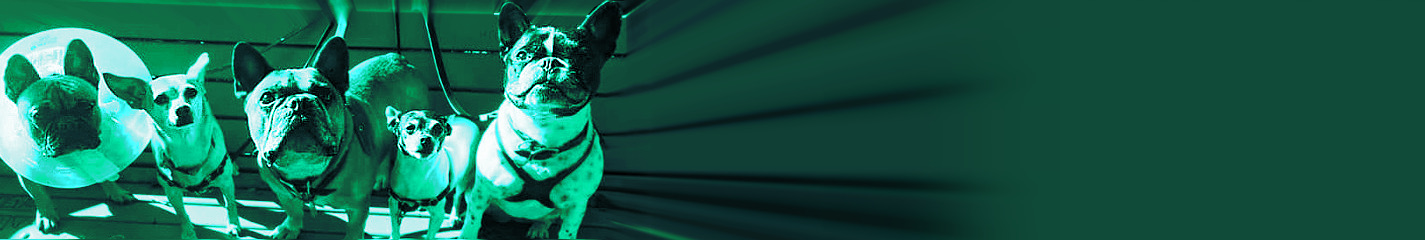
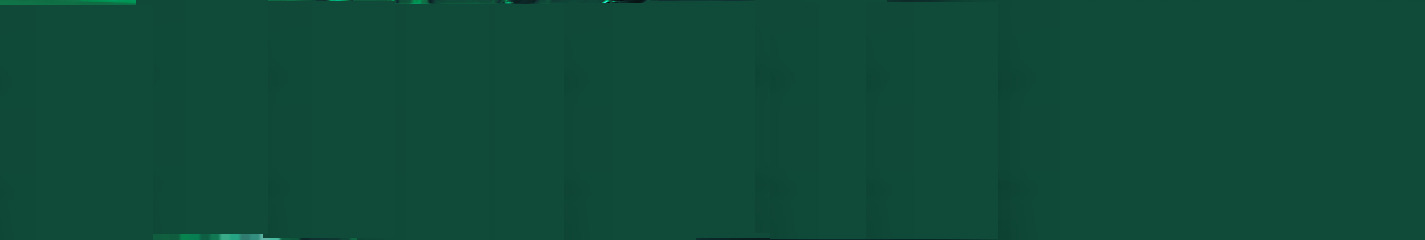
Update to remove picture

diff --git a/src/app/boarding/boarding.component.html b/src/app/boarding/boarding.component.html
@@ -1,9 +1,9 @@
-<div fxFlex fxShow="false" fxShow.gt-sm="true">
+<div fxFlex fxShow="false" fxShow.gt-xs="true">
   <div class="barkeley-service">
     <h1 class="barkeley-service-title">Boarding</h1>
   </div>
 </div>
-<div fxFlex fxHide="false" fxHide.gt-sm="true">
+<div fxFlex fxHide="false" fxHide.gt-xs="true">
   <div class="barkeley-service-small">
     <h1 class="barkeley-service-title small"><i class="mdi mdi-weather-night"></i><br>Boarding</h1>
   </div>
@@ -57,8 +57,9 @@
 
   <h2>Check-in/Check-out</h2>
 
-  <p>Check-in for boarding starts after 3pm and checkout-out is no later than 10am. Please note that dogs arriving
-    before 3pm or departing after 10am are subject to Daycare fees in addition to the price for boarding.</p>
+  <p>You can check-in your dog for boarding anytime after our lobby opens for business. Check-out for boarding should
+    happen no later than 11am. Please note that dogs departing after 11am are subject to daycare fees in addition to the
+    price for boarding.</p>
 
   <!--  <h2>Holiday Rates</h2>
 

diff --git a/src/app/about/about.component.html b/src/app/about/about.component.html
@@ -75,7 +75,7 @@
 
   <h4>Training</h4>
 
-  <p>We believe that a key to happiness is being a lifelong learner. Same goes for dogs. If you're interested in
+  <p><img class="barkeley-shadow-box float-right" src="../../assets/img/amanda-portrait.jpg">We believe that a key to happiness is being a lifelong learner. Same goes for dogs. If you're interested in
     training for your pup, we can arrange training sessions for your dog during their stay at The Barkeley. Contact us
     to learn more.</p>
 
@@ -87,7 +87,7 @@
 
   <h1>A Team You Can Trust</h1>
 
-  <p><img class="barkeley-shadow-box float-right" src="../../assets/img/amanda-portrait.jpg">The Barkeley's team of dog
+  <p>The Barkeley's team of dog
     care professionals will provide a safe and fully supervised environment. Our team members are trained on dog body
     language and behavior. We’ll shower your pup with individual attention and affection, and help them reach their full
     potential at any age.

diff --git a/src/app/footer/footer.component.html b/src/app/footer/footer.component.html
@@ -43,6 +43,9 @@
                   &nbsp;&nbsp;
                   <a class="mdi mdi-yelp mdi-24px" href="http://yelp.com/biz/the-barkeley-berkeley" target="_blank"
                      title="Yelp!"></a>
+                  &nbsp;&nbsp;
+                  <a class="mdi mdi-home mdi-24px" href="https://nextdoor.com/pages/the-barkeley-berkeley-ca" target="_blank"
+                     title="Nextdoor"></a>
                 </md-list-item>
               </md-list>
             </div>
@@ -137,6 +140,9 @@
         &nbsp;&nbsp;
         <a class="mdi mdi-yelp mdi-24px" href="http://yelp.com/biz/the-barkeley-berkeley" target="_blank"
            title="Yelp!"></a>
+        &nbsp;&nbsp;
+        <a class="mdi mdi-home mdi-24px" href="https://nextdoor.com/pages/the-barkeley-berkeley-ca/recommend/" target="_blank"
+           title="Nextdoor"></a>
       </h4>
     </div>
 

diff --git a/src/barkeley-theme.scss b/src/barkeley-theme.scss
@@ -353,7 +353,7 @@ div.barkeley-service {
   width: 100%;
   margin: 0;
   background-size: cover;
-  background: url('assets/img/dog-banner.jpg') no-repeat 50% 0;
+  background: url('assets/img/dog-banner-green.jpg')no-repeat 50% 0;
   min-height: 20vmax;
   z-index: -1;
 }
